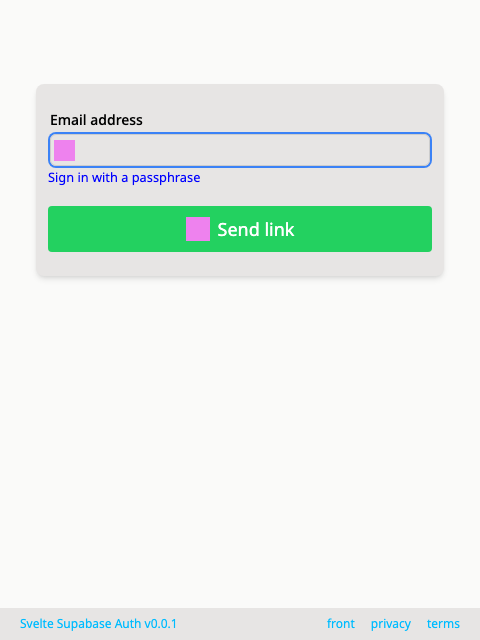
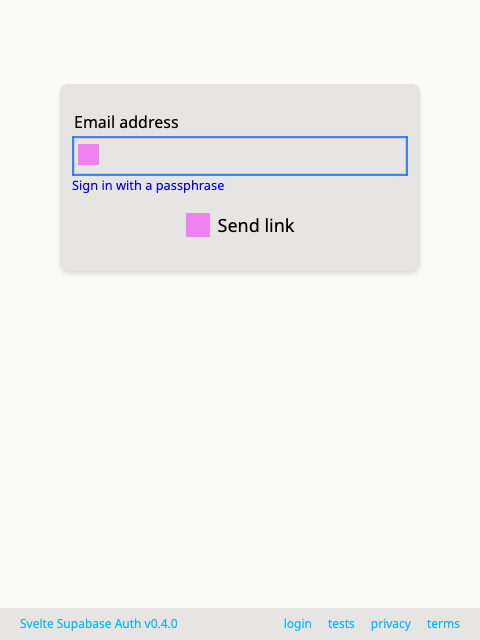
Fixed some CSS affecting the web component

diff --git a/packages/main/src/lib/components/PasswordField.svelte b/packages/main/src/lib/components/PasswordField.svelte
@@ -9,6 +9,7 @@
   import { debounce, escapeRegExp, isNull } from 'lodash-es';
   import { tick } from 'svelte';
   import Icon from '$lib/elements/Icon.svelte';
+  import LinkButton from '$lib/elements/LinkButton.svelte';
 
   interface Props {
     value: string
@@ -108,14 +109,14 @@
 {/snippet}
 
 <div class="input flex">
-  <input type="{showPassword ? 'text' : 'password'}" name="pw" bind:value oninput={handleInput}>
-  <button type="button" onclick={() => showPassword = !showPassword}>
+  <LinkButton onclick={() => showPassword = !showPassword} style="position:absolute; bottom:109%;" aria-label={getText('pwToggle')}>
     {#if showPassword}
-      <Icon name="eye" />
+      <Icon name="eye" size="14" />
     {:else}
-      <Icon name="eyeoff" />
+      <Icon name="eyeoff" size="14" />
     {/if}
-  </button>
+  </LinkButton>
+  <input type="{showPassword ? 'text' : 'password'}" aria-label={getText('pwLabel')} bind:value oninput={handleInput}>
 </div>
 <div class="pw-strength">
   {#if feedback}
@@ -144,17 +145,9 @@
 
 <style>
   div { position:relative; }
-  div.input { flex-direction: row-reverse; }
-  input {
-    display: inline-block;
-  }
-  button {
-    display: inline-block;
-    position: absolute;
-    border: none;
-    bottom: 100%;
-    color: var(--link-color);
-    padding: 3px;
+  div.input {
+    width: 100%;
+    flex-direction: row-reverse;
   }
   .pw-strength {
     font-size: 80%;

diff --git a/packages/main/src/lib/Auth.svelte b/packages/main/src/lib/Auth.svelte
@@ -167,12 +167,14 @@
   :global(.sA input) {
     display: block;
     width: 100%;
+    flex: 1;
     padding: var(--input-padding);
+    border: 1px solid var(--layout-color);
   }
   :global(.sA form) {
     display: flex;
+    gap: var(--flex-gap);
     flex-direction: column;
-    gap: 1.2rem;
   }
   :global(.sA .flex) {
     display: flex;
@@ -194,6 +196,9 @@
   :global(.sA .warning) {
     color: var(--warning-color);
   }
+  :global(.sA h3) {
+    margin: 0;
+  }
 
   .divider {
     color: var(--layout-color);
@@ -204,7 +209,7 @@
   }
 
   .divider span {
-    margin: 1rem;
+    margin: var(--flex-gap);
   }
 
   .divider::before, .divider::after {

diff --git a/packages/main/src/lib/i18n/index.ts b/packages/main/src/lib/i18n/index.ts
@@ -30,6 +30,7 @@ export interface AuthTexts {
   pwUniquenessLabel: string
   pwChange: string
   pwChanged: string
+  pwToggle: string
 
   // Link texts
   switchToMagicLink: string
@@ -144,6 +145,7 @@ const en:AuthTexts = {
   pwUniquenessLabel: 'uniqueness check',
   pwChange: 'Change your passphrase',
   pwChanged: 'Passphrase changed successfully.',
+  pwToggle: 'show/hide password',
 
   // Link texts
   switchToMagicLink: 'Sign in with an email link',

diff --git a/packages/main/src/lib/elements/LinkButton.svelte b/packages/main/src/lib/elements/LinkButton.svelte
@@ -14,7 +14,7 @@
 <button role="link" class:block class:large class="{classText}" type="button" onclick={(e) => { e.preventDefault(); onclick?.(); }} {...rest}>{@render children()}</button>
 
 <style>
-  button {
+  button[role="link"] {
     text-align: match-parent;
     border: none;
     background: none;

diff --git a/packages/main/src/routes/+page.svelte b/packages/main/src/routes/+page.svelte
@@ -12,6 +12,7 @@
   import { languages } from './languages'
   import GearIcon from 'virtual:icons/lucide/settings'
   import Options from './Options.svelte';
+	import '$lib/supabase-auth.css';
 
   let locale = $state('en')
 

diff --git a/packages/main/src/lib/views/MFAChallengeView.svelte b/packages/main/src/lib/views/MFAChallengeView.svelte
@@ -53,7 +53,7 @@
 </script>
 
 <div>
-  <h2>{getText('mfaEnterCodeHeading')}</h2>
+  <h3>{getText('mfaEnterCodeHeading')}</h3>
   {#await factorsPromise}
     <p>{getText('loadingAuthMethods')}</p>
   {:then factors}

diff --git a/packages/main/src/lib/elements/InputWrapper.svelte b/packages/main/src/lib/elements/InputWrapper.svelte
@@ -51,9 +51,10 @@
     position: absolute;
     left: 0;
     margin: 6px;
+    z-index: 1;
   }
   .input {
     position: relative;
-    display: block;
+    display: flex;
   }
 </style>

diff --git a/packages/main/src/routes/+layout.svelte b/packages/main/src/routes/+layout.svelte
@@ -1,6 +1,5 @@
 <script lang="ts">
 	import '../app.css';
-	import '$lib/supabase-auth.css';
 	import { version } from '../../package.json';
 
 	let { children } = $props();

diff --git a/packages/main/src/lib/elements/Button.svelte b/packages/main/src/lib/elements/Button.svelte
@@ -60,6 +60,7 @@
     align-items: center;
     position: relative;
     padding: 0.2rem 0.5rem;
+    cursor: pointer;
   }
 
   button.large {

diff --git a/.changeset/chatty-lies-add.md b/.changeset/chatty-lies-add.md
@@ -1,0 +1,5 @@
+---
+"svelte-supabase-auth": patch
+---
+
+Fixed some CSS affecting the web component
